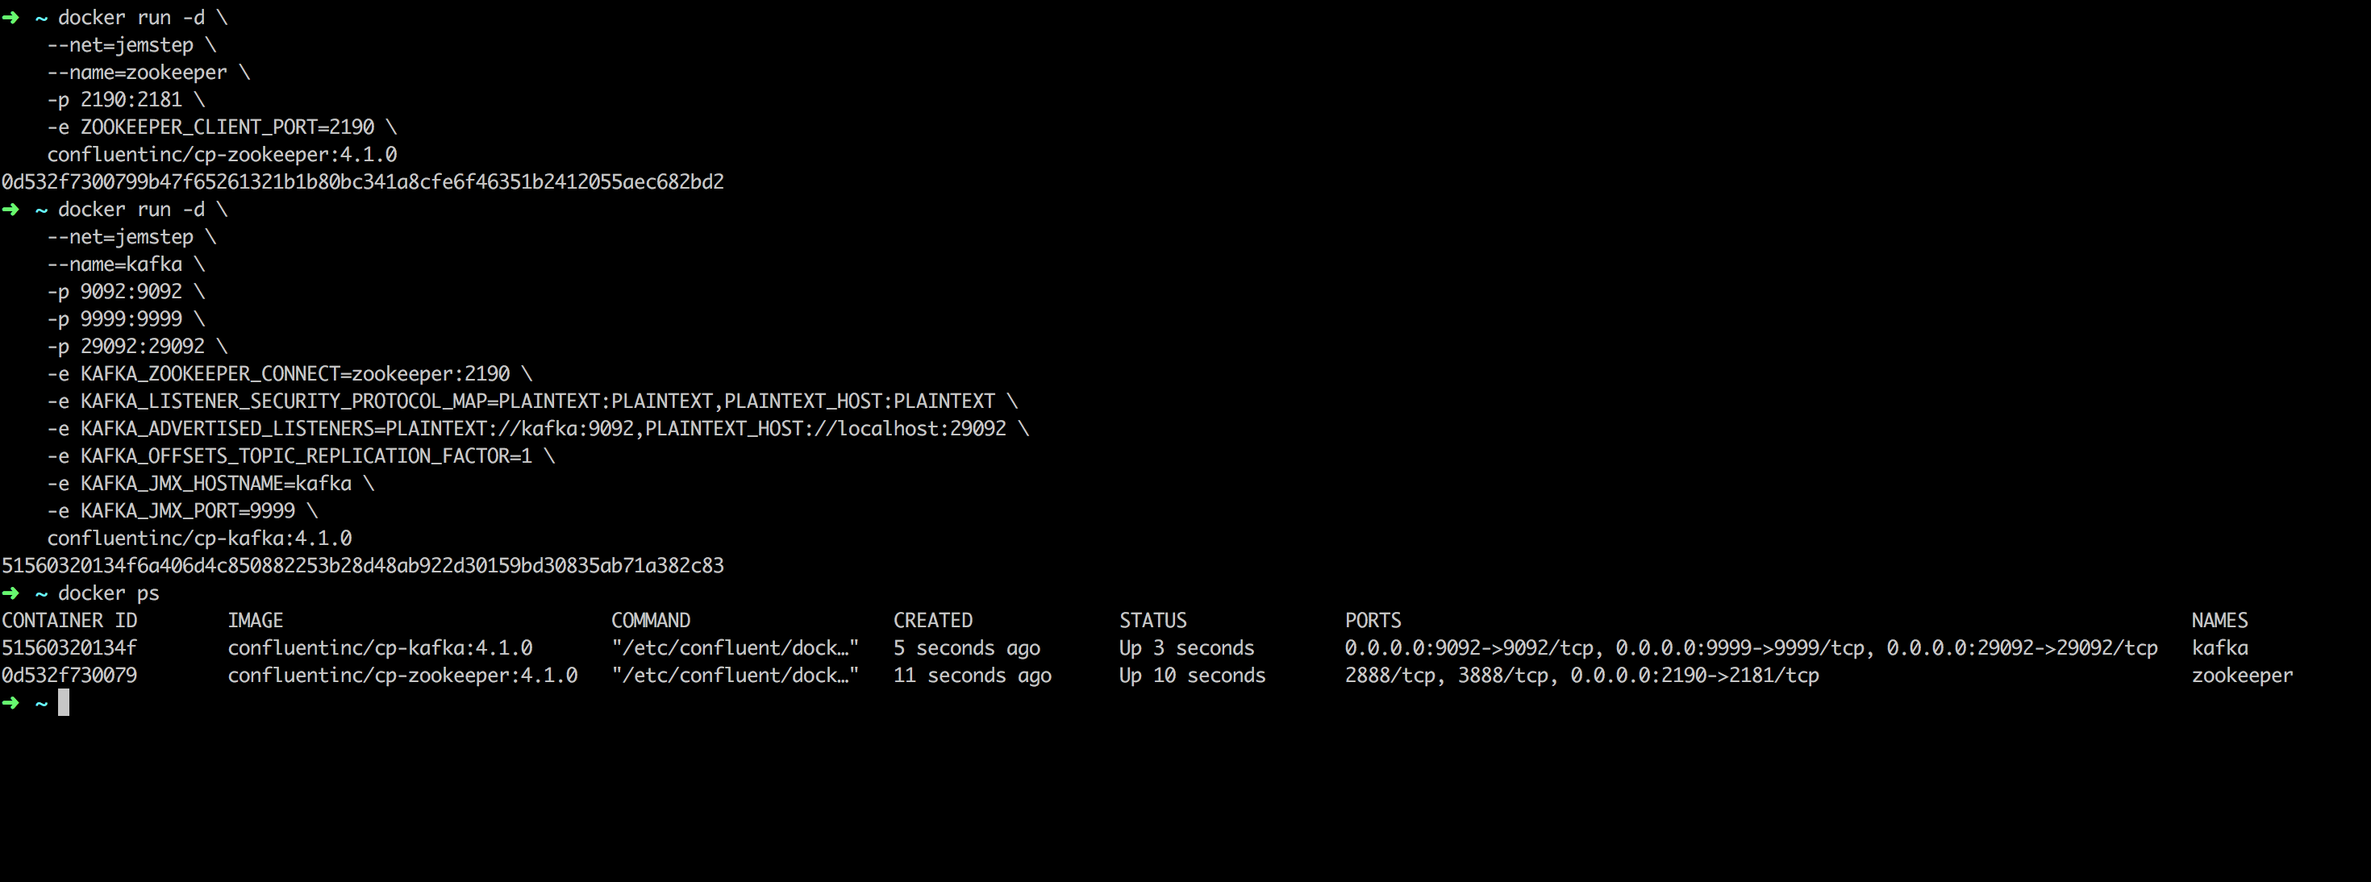
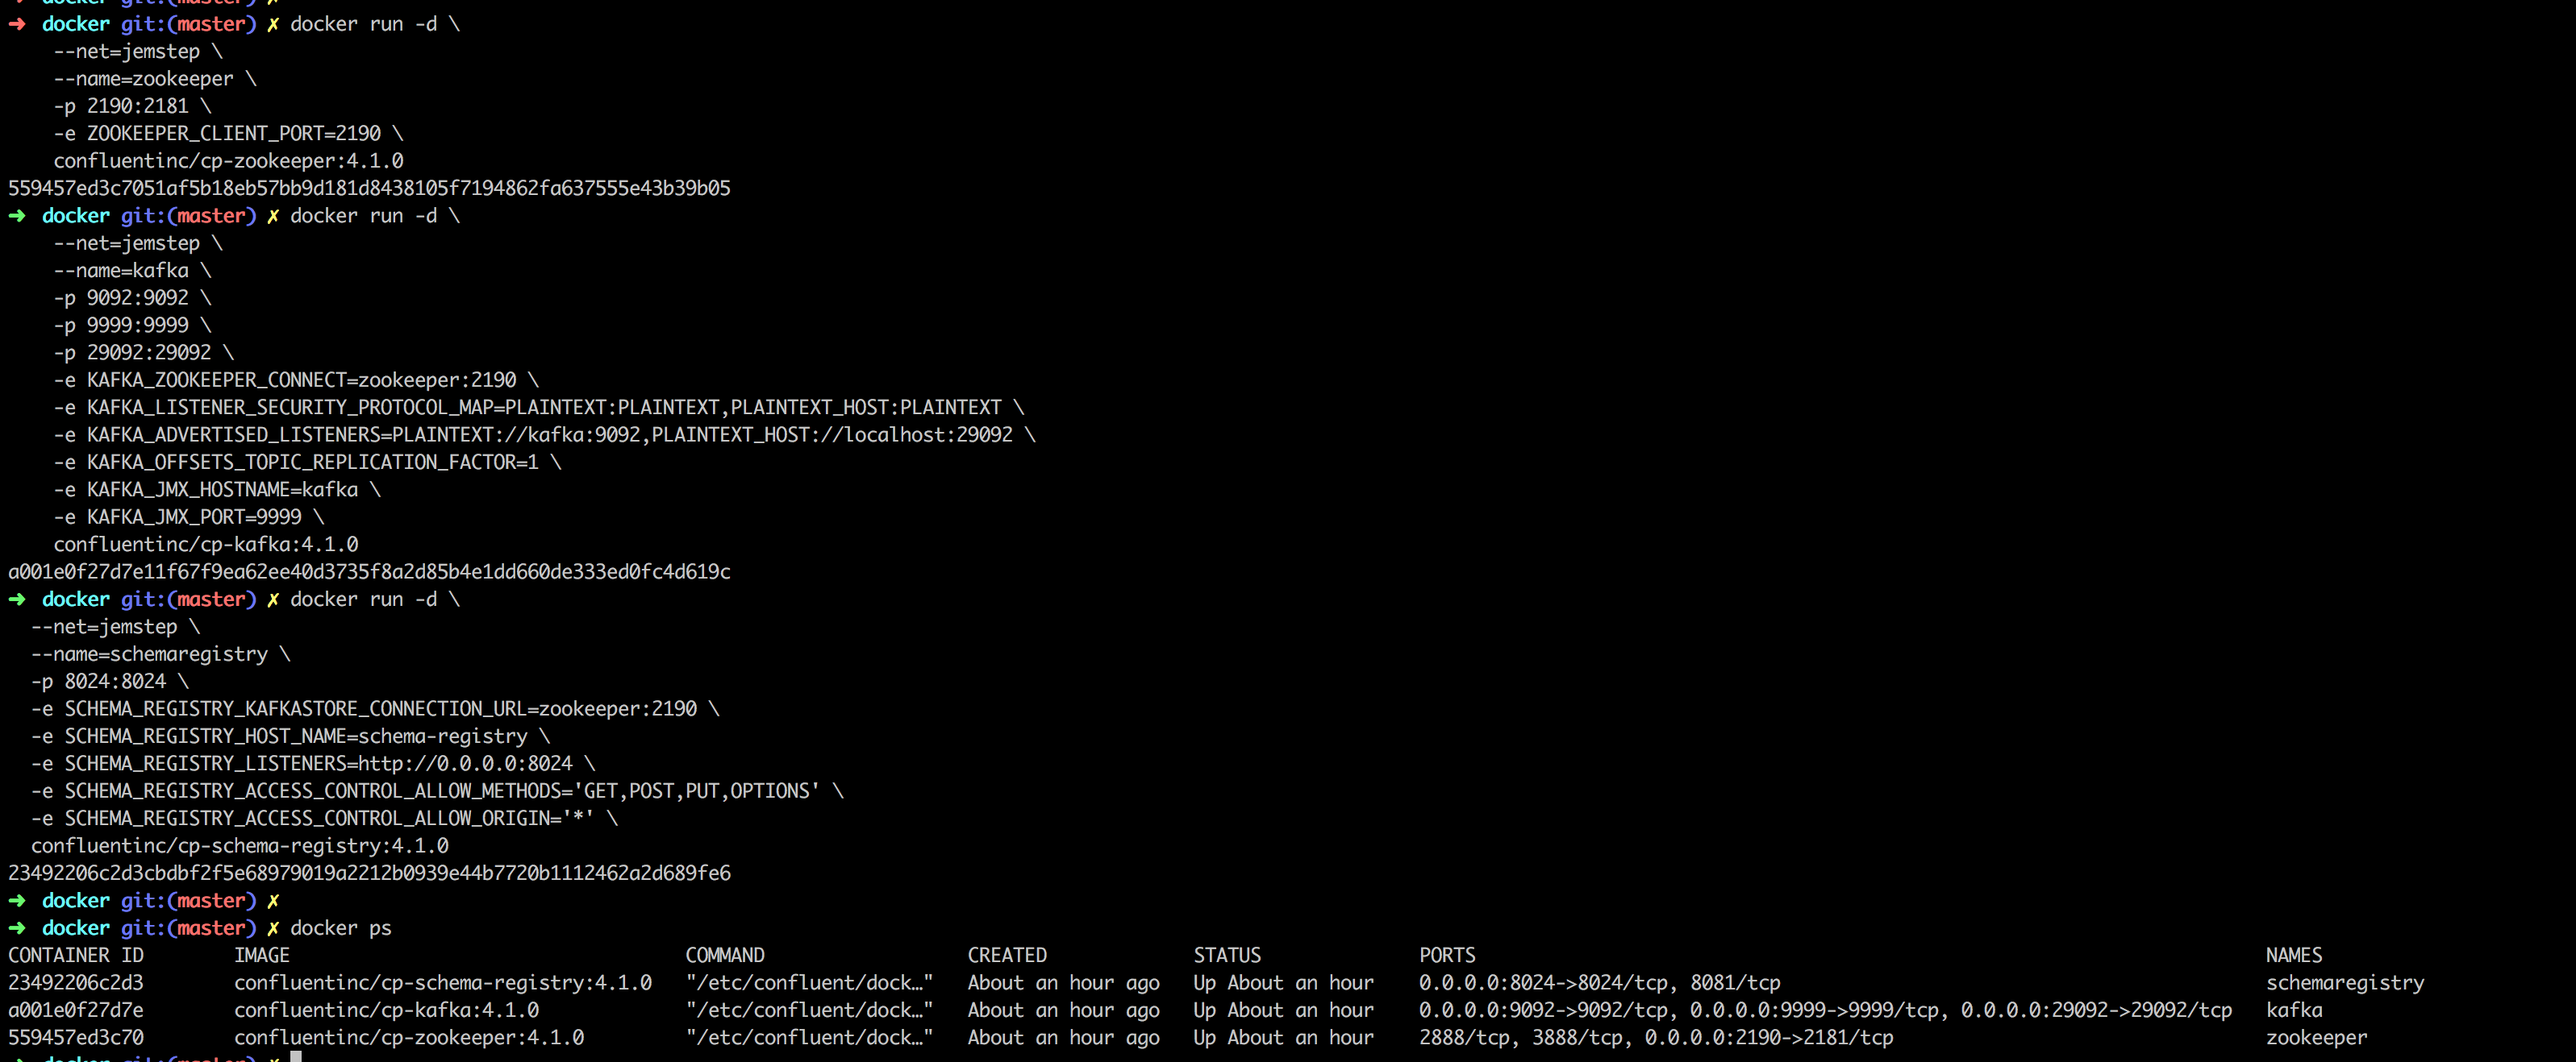
Code changes to integrate druid with schema-registry after PR contribution to Druid source code

Changed region(s): [[0.0, 0.0, 0.9286, 1.0], [0.5571, 0.6837, 0.9595, 0.777], [0.4643, 0.6837, 0.5262, 0.777]]

diff --git a/README.md b/README.md
@@ -44,11 +44,24 @@ docker run -d \
     -e KAFKA_JMX_PORT=9999 \
     confluentinc/cp-kafka:4.1.0
 ```  
+###### 5. Schema-Registry:
+```
+docker run -d \
+  --net=jemstep \
+  --name=schemaregistry \
+  -p 8024:8024 \
+  -e SCHEMA_REGISTRY_KAFKASTORE_CONNECTION_URL=zookeeper:2190 \
+  -e SCHEMA_REGISTRY_HOST_NAME=schema-registry \
+  -e SCHEMA_REGISTRY_LISTENERS=http://0.0.0.0:8024 \
+  -e SCHEMA_REGISTRY_ACCESS_CONTROL_ALLOW_METHODS='GET,POST,PUT,OPTIONS' \
+  -e SCHEMA_REGISTRY_ACCESS_CONTROL_ALLOW_ORIGIN='*' \
+  confluentinc/cp-schema-registry:4.1.0
+```
 ![](screenshots/4.png)
 
 
 
-###### 5. Run App(steps to be done using console 3)
+###### 6. Run App(steps to be done using console 3)
 
 1. `git clone https://github.com/jemstep/analytics.git`
 2. `cd analytics`
@@ -57,17 +70,17 @@ docker run -d \
 
 ![](screenshots/5.png)
 
-###### 6. Go to console 1 and 
+###### 7. Go to console 1 and 
 
 1. run `./supervisor.sh` which registers kafka-indexing service with the coordinator.
 ![](screenshots/6.png)
 
-###### 7. Go to console 3 and 
+###### 8. Go to console 3 and 
 
 1. run `sbt "runMain com.jemstep.producer.PlainSinkProducerMain"` to genarate more messages
 2. run `sbt "runMain com.jemstep.producer.PlainSinkProducerMain"` to genarate more messages
 
-###### 7. Below things can be seen in Druid console and Druid Indexing.
+###### 9. Below things can be seen in Druid console and Druid Indexing.
 
 ![](screenshots/8.png)
 ![](screenshots/9.png)
@@ -79,7 +92,7 @@ docker run -d \
 ![](screenshots/15.png)
 ![](screenshots/18.png)
 
-###### 8. Running SuperSet(open console 4)
+###### 10. Running SuperSet(open console 4)
 ```
 git clone https://github.com/apache/incubator-superset/
 cd incubator-superset/contrib/docker
@@ -95,10 +108,10 @@ Once all of them are up you see below screenshots on console 4:
 ![](screenshots/16.png)
 ![](screenshots/19.png)
 
-######: 9. Once superset starts running on http://localhost:8088, kindly follow
+######: 11. Once superset starts running on http://localhost:8088, kindly follow
 1. + https://github.com/jemstep/analytics/Step_by_step_Guide_To_configure_Superset.pdf document to connect to local druid broker for issuing quaries and creating charts with the data stored in Druid.
 
-######: 10. More links useful during learning:
+######: 12. More links useful during learning:
 1. http://druid.io/docs/latest/design/index.html
 2. http://druid.io/docs/latest/ingestion/flatten-json.html
 3. http://jsonpath.herokuapp.com/
